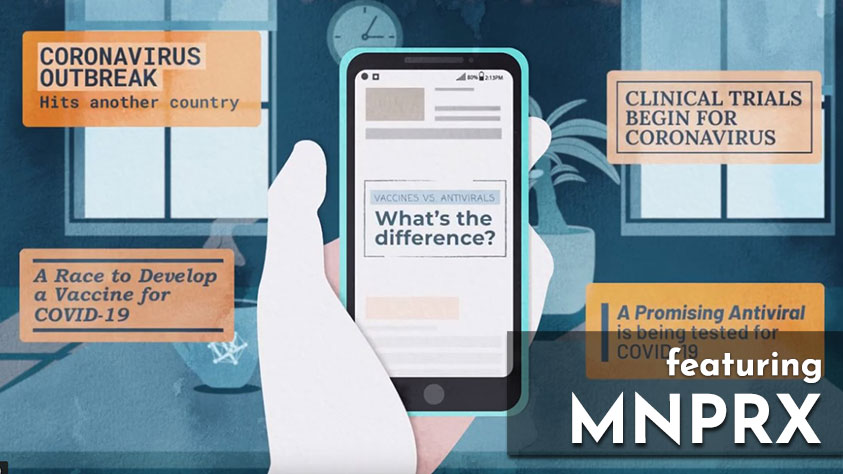
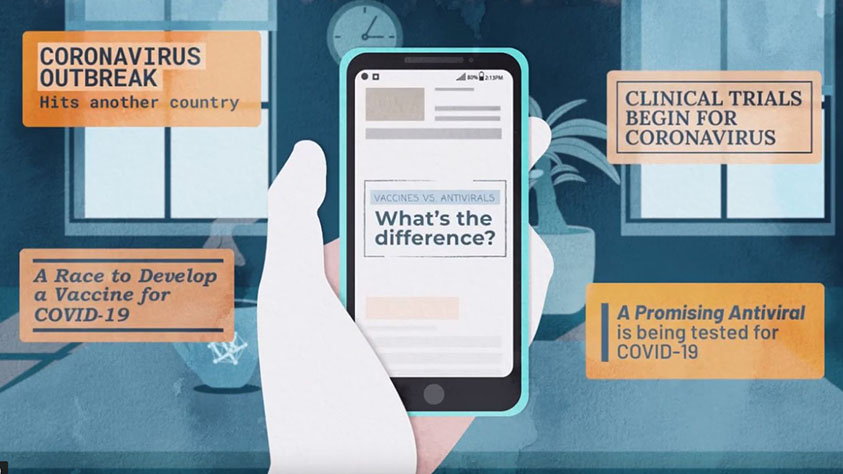
Updating Animation Film Spotlight to only feature Flair/MNPRX projects

Changed region(s): [[0.586, 0.6793, 1.0, 0.9747]]

diff --git a/_posts/anim-film-spot/2022-01-20-bidoof.md b/_posts/anim-film-spot/2022-01-20-bidoof.md
@@ -1,0 +1,29 @@
+---
+layout: post
+categories: anim-film-spot
+title: Bidoof's Big Stand
+tile-title: Bidoof's Big Stand
+director: Shaofu Zhang
+studio:
+  name: Taiko Studios
+  logo: taiko.jpg
+  url:  http://www.taikostudios.com/
+duration: "08:06"
+year: 2022
+excerpt: Bidoof has problems fitting in, which makes him special.
+place: by TAIKO Studios
+image:
+  path: images/blog/animation-spotlight/bidoof-thumb.jpg
+  thumbnail: images/blog/animation-spotlight/bidoof-thumb.jpg
+share: true
+schema: Movie
+---
+
+{% include responsive-embed url="https://www.youtube.com/embed/UTidwW3iLHk?rel=0" ratio="16:9" %}
+
+Academy Award-nominated [Taiko Studios](http://www.taikostudios.com/) brings us a Pokémon story showcasing the struggles of finding one's purpose and the friendship between a trainer and his Bidoof.
+
+**Stylized Highlights**
+* Frayed edges that move with the underlaying animation with the help of MNPRX
+* Frayed edges applied selectively on different objects and vertices
+* Arnold/MNPRX integration in Nuke

diff --git a/_blog/anim-film-spot.md b/_blog/anim-film-spot.md
@@ -2,7 +2,7 @@
 title: Animation Film Spotlight
 layout: page
 entries_layout: grid
-excerpt: Our team picks one stylized animation short to inspire you every other Friday
+excerpt: Our team picks animations done with Flair/MNPRX as reference and inspiration.
 place: Fú 福 by TAIKO Studios
 image:
   thumbnail: images/blog/animation-spotlight/fu-thumb.jpg
@@ -10,7 +10,7 @@ taxonomy: anim-film-spot
 sitemap: false
 ---
 
-Our team picks one stylized animation short to inspire you every other Friday.
+Our team picks stylized animations done with Flair/MNPRX as reference and inspiration.
 {: .pull-center}
 
 <div class="entries-{{ page.entries_layout | default: 'list' }}">
